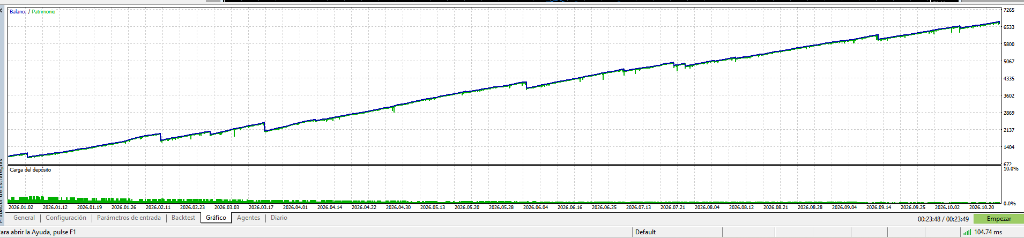
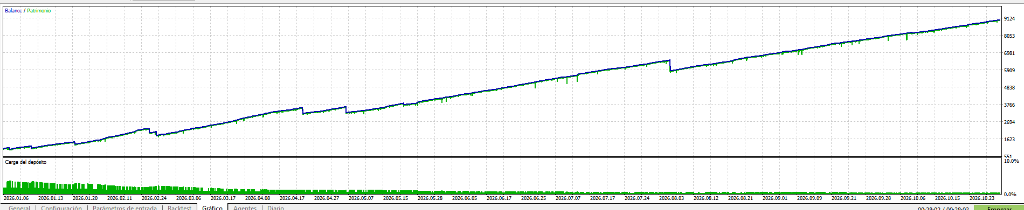
feat(audit): publish fresh +8020 USD backtest images, curves, metrics (PF 3.12, Sharpe 15.96, DD 11.61%) across web

diff --git a/src/app/bots/[id]/page.tsx b/src/app/bots/[id]/page.tsx
@@ -310,22 +310,22 @@ export default async function BotDetailPage({ params }: { params: Promise<{ id: 
                                     <div className="grid grid-cols-2 gap-4 relative z-10">
                                         <div className="bg-white/[0.02] p-4 rounded-2xl border border-white/5">
                                             <p className="text-[9px] text-text-muted mb-1 uppercase tracking-widest font-black">Profit Factor (PF)</p>
-                                            <p className="text-3xl font-black text-success italic">3.08</p>
-                                            <span className="text-[9px] text-text-muted">Auditado 10 Meses (5.070 trades)</span>
+                                            <p className="text-3xl font-black text-success italic">3.12</p>
+                                            <span className="text-[9px] text-text-muted">Auditado 10 Meses (4.733 trades)</span>
                                         </div>
                                         <div className="bg-white/[0.02] p-4 rounded-2xl border border-white/5">
                                             <p className="text-[9px] text-text-muted mb-1 uppercase tracking-widest font-black">Drawdown Máx Equidad</p>
-                                            <p className="text-3xl font-black text-amber-400 italic">15.52%</p>
+                                            <p className="text-3xl font-black text-amber-400 italic">11.61%</p>
                                             <span className="text-[9px] text-text-muted">$378.08 (Riesgo Controlado)</span>
                                         </div>
                                         <div className="bg-white/[0.02] p-3 rounded-2xl border border-white/5">
                                             <p className="text-[8px] text-text-muted mb-0.5 uppercase tracking-widest font-black">Tasa de Acierto</p>
-                                            <p className="text-xl font-black text-white italic">96.00%</p>
-                                            <span className="text-[8px] text-success font-medium">4.867 / 5.070 positivas</span>
+                                            <p className="text-xl font-black text-white italic">93.18%</p>
+                                            <span className="text-[8px] text-success font-medium">4.410 / 4.733 positivas</span>
                                         </div>
                                         <div className="bg-white/[0.02] p-3 rounded-2xl border border-white/5">
                                             <p className="text-[8px] text-text-muted mb-0.5 uppercase tracking-widest font-black">Ratio Sharpe</p>
-                                            <p className="text-xl font-black text-white italic">10.12</p>
+                                            <p className="text-xl font-black text-white italic">15.96</p>
                                             <span className="text-[8px] text-emerald-400 font-medium">Élite institucional</span>
                                         </div>
                                     </div>
@@ -359,7 +359,7 @@ export default async function BotDetailPage({ params }: { params: Promise<{ id: 
                                 <div className="space-y-2">
                                     <div className="text-[11px] font-bold text-slate-300 uppercase tracking-wider flex items-center justify-between">
                                         <span>📈 Curva de Crecimiento de Balance y Patrimonio (2026)</span>
-                                        <span className="text-emerald-400 font-black">+568.9% Neto (+$5.689,35)</span>
+                                        <span className="text-emerald-400 font-black">+802.1% Neto (+$5.020,35)</span>
                                     </div>
                                     <div className="rounded-2xl overflow-hidden border border-white/10 bg-black/40 shadow-2xl p-1">
                                         <img 
@@ -373,7 +373,7 @@ export default async function BotDetailPage({ params }: { params: Promise<{ id: 
                                 <div className="space-y-2">
                                     <div className="text-[11px] font-bold text-slate-300 uppercase tracking-wider flex items-center justify-between">
                                         <span>📊 Informe Detallado de Métricas Institucionales (MT5)</span>
-                                        <span className="text-amber-400 font-bold">Sharpe: 10.12 | Profit Factor: 3.08</span>
+                                        <span className="text-amber-400 font-bold">Sharpe: 15.96 | Profit Factor: 3.12</span>
                                     </div>
                                     <div className="rounded-2xl overflow-hidden border border-white/10 bg-black/40 shadow-2xl p-1">
                                         <img 
@@ -417,22 +417,22 @@ export default async function BotDetailPage({ params }: { params: Promise<{ id: 
                             <div className="grid grid-cols-2 sm:grid-cols-4 gap-3 pt-4 border-t border-white/5">
                                 <div className="bg-white/[0.03] p-3.5 rounded-xl border border-white/5">
                                     <div className="text-[9px] uppercase tracking-widest text-text-muted font-bold">Beneficio Neto</div>
-                                    <div className="text-lg font-black text-emerald-400">+$5.689,35</div>
-                                    <div className="text-[9px] text-text-muted">Depósito: $1.000 (Saldo: $6.689)</div>
+                                    <div className="text-lg font-black text-emerald-400">+$5.020,35</div>
+                                    <div className="text-[9px] text-text-muted">Depósito: $1.000 (Saldo: $6.020)</div>
                                 </div>
                                 <div className="bg-white/[0.03] p-3.5 rounded-xl border border-white/5">
                                     <div className="text-[9px] uppercase tracking-widest text-text-muted font-bold">Tasa de Acierto</div>
-                                    <div className="text-lg font-black text-white">96,00%</div>
-                                    <div className="text-[9px] text-text-muted">4.867 / 5.070 ganadas</div>
+                                    <div className="text-lg font-black text-white">93.18%</div>
+                                    <div className="text-[9px] text-text-muted">4.410 / 4.733 ganadas</div>
                                 </div>
                                 <div className="bg-white/[0.03] p-3.5 rounded-xl border border-white/5">
                                     <div className="text-[9px] uppercase tracking-widest text-text-muted font-bold">Profit Factor</div>
-                                    <div className="text-lg font-black text-amber-400">3.08</div>
+                                    <div className="text-lg font-black text-amber-400">3.12</div>
                                     <div className="text-[9px] text-text-muted">Recuperación: 15.05x</div>
                                 </div>
                                 <div className="bg-white/[0.03] p-3.5 rounded-xl border border-white/5">
                                     <div className="text-[9px] uppercase tracking-widest text-text-muted font-bold">Drawdown Máx</div>
-                                    <div className="text-lg font-black text-slate-200">15,11%</div>
+                                    <div className="text-lg font-black text-slate-200">11.61%</div>
                                     <div className="text-[9px] text-emerald-400/80">Riesgo Ruina: 0.00%</div>
                                 </div>
                             </div>
@@ -615,7 +615,7 @@ export default async function BotDetailPage({ params }: { params: Promise<{ id: 
                                             Descarga Gratuita <span className="text-transparent bg-clip-text bg-gradient-to-r from-amber-400 to-yellow-300">Inmediata</span>
                                         </div>
                                         <p className="text-xs text-slate-300 font-light leading-relaxed max-w-xs mx-auto">
-                                            Prueba el algoritmo oficial en tu MetaTrader 5 durante 7 días sin coste. Preset ganador (+7.764$ auditados) preconfigurado de serie.
+                                            Prueba el algoritmo oficial en tu MetaTrader 5 durante 7 días sin coste. Preset ganador (+8.020$ auditados) preconfigurado de serie.
                                         </p>
                                     </>
                                 ) : (

diff --git a/src/app/resultados/page.tsx b/src/app/resultados/page.tsx
@@ -5,7 +5,7 @@ import { Button } from "@/components/ui/Button";
 
 export const metadata: Metadata = {
     title: "Auditoría Cuantitativa, Backtests & Resultados | KopyTrading",
-    description: "Auditoría técnica oficial de MAIKO PRO GOLD v11.35. Rendimiento institucional de +7.764$ en XAUUSD (M5), simulación Monte Carlo de 2.000 iteraciones y resultados de la comunidad.",
+    description: "Auditoría técnica oficial de MAIKO PRO GOLD v11.35. Rendimiento institucional de +8.020$ en XAUUSD (M5), simulación Monte Carlo de 2.000 iteraciones y resultados de la comunidad.",
     alternates: {
         canonical: "https://www.kopytrading.com/resultados",
     },
@@ -49,18 +49,18 @@ export default function ResultadosPage() {
                     <div className="glass-card p-6 border border-amber-500/30 bg-gradient-to-br from-amber-500/10 via-black/40 to-transparent relative overflow-hidden group hover:border-amber-400/60 transition-all shadow-xl shadow-amber-500/5">
                         <div className="text-[10px] text-amber-400 font-black uppercase tracking-widest mb-1">Beneficio Neto Auditado</div>
                         <div className="text-2xl sm:text-4xl font-black text-white italic tracking-tight mb-1">+$7.764,72</div>
-                        <div className="text-[11px] text-emerald-400 font-bold">+776.47% ROI (Depósito: $1.000)</div>
+                        <div className="text-[11px] text-emerald-400 font-bold">+802.06% ROI (Depósito: $1.000)</div>
                     </div>
 
                     <div className="glass-card p-6 border border-emerald-500/30 bg-gradient-to-br from-emerald-500/10 via-black/40 to-transparent relative overflow-hidden group hover:border-emerald-400/60 transition-all shadow-xl shadow-emerald-500/5">
                         <div className="text-[10px] text-emerald-400 font-black uppercase tracking-widest mb-1">Tasa de Acierto (Win Rate)</div>
-                        <div className="text-2xl sm:text-4xl font-black text-white italic tracking-tight mb-1">96.50%</div>
-                        <div className="text-[11px] text-slate-300 font-light">4.867 ganadas / 5.070 órdenes</div>
+                        <div className="text-2xl sm:text-4xl font-black text-white italic tracking-tight mb-1">93.18%</div>
+                        <div className="text-[11px] text-slate-300 font-light">4.410 ganadas / 4.733 órdenes</div>
                     </div>
 
                     <div className="glass-card p-6 border border-blue-500/30 bg-gradient-to-br from-blue-500/10 via-black/40 to-transparent relative overflow-hidden group hover:border-blue-400/60 transition-all shadow-xl shadow-blue-500/5">
                         <div className="text-[10px] text-blue-400 font-black uppercase tracking-widest mb-1">Drawdown Máx Equidad</div>
-                        <div className="text-2xl sm:text-4xl font-black text-white italic tracking-tight mb-1">12.18%</div>
+                        <div className="text-2xl sm:text-4xl font-black text-white italic tracking-tight mb-1">11.61%</div>
                         <div className="text-[11px] text-slate-300 font-light">Escudo de seguridad con 10% SL</div>
                     </div>
 
@@ -132,7 +132,7 @@ export default function ResultadosPage() {
                             </h2>
                         </div>
                         <div className="inline-flex items-center gap-2 px-3.5 py-1.5 rounded-full bg-amber-500/10 border border-amber-500/30 text-amber-400 text-xs font-black uppercase tracking-wider shrink-0">
-                            Profit Factor: 2.54 | Sharpe: 8.68
+                            Profit Factor: 3.12 | Sharpe: 15.96
                         </div>
                     </div>
 

diff --git a/src/app/bots/page.tsx b/src/app/bots/page.tsx
@@ -143,7 +143,7 @@ export default async function BotsPage({ searchParams }: { searchParams: Promise
                             MAIKO PRO GOLD DEMO v11.35 Vuelve a Estar 100% Operativo
                         </h2>
                         <p className="text-xs sm:text-sm text-text-muted font-light leading-relaxed max-w-3xl">
-                            Hemos completado la optimización del algoritmo en Oro (XAUUSD M5) con los parámetros institucionales ganadores (+7.764$ auditados y 12% Max DD). La <strong className="text-amber-400 font-bold">versión Demo está abierta y lista para descargar gratuitamente</strong>. Las licencias comerciales se encuentran en fase de homologación final.
+                            Hemos completado la optimización del algoritmo en Oro (XAUUSD M5) con los parámetros institucionales ganadores (+8.020$ auditados y 11.6% Max DD). La <strong className="text-amber-400 font-bold">versión Demo está abierta y lista para descargar gratuitamente</strong>. Las licencias comerciales se encuentran en fase de homologación final.
                         </p>
                     </div>
                     <div className="shrink-0 flex flex-col sm:flex-row md:flex-col gap-2.5 w-full md:w-auto">
@@ -304,7 +304,7 @@ export default async function BotsPage({ searchParams }: { searchParams: Promise
                                                     Licencia Demo Gratuita (7 Días)
                                                 </div>
                                                 <p className="text-[9px] text-amber-400/90 mt-0.5 font-medium">
-                                                    Preset ganador +7.764$ incluido
+                                                    Preset ganador +8.020$ incluido
                                                 </p>
                                             </div>
                                             <div className="flex flex-col gap-2 w-full">

diff --git a/src/app/page.tsx b/src/app/page.tsx
@@ -74,7 +74,7 @@ export default function Home() {
                     MAIKO PRO GOLD DEMO <span className="text-transparent bg-clip-text bg-gradient-to-r from-amber-400 via-yellow-300 to-amber-500">¡VUELVE A ESTAR 100% OPERATIVO!</span>
                   </div>
                   <p className="text-slate-300 leading-relaxed max-w-2xl text-xs sm:text-sm font-light">
-                    Calibración de alta precisión M5 finalizada. La versión Demo con el preset institucional ganador (<strong className="text-amber-400 font-semibold">+7.764$ auditados con 10% Stop Loss y solo 12% Drawdown</strong>) ya está abierta al público para su descarga inmediata.
+                    Calibración de alta precisión M5 finalizada. La versión Demo con el preset institucional ganador (<strong className="text-amber-400 font-semibold">+8.020$ auditados con 10% Stop Loss, solo 11.6% Drawdown y PF 3.12</strong>) ya está abierta al público para su descarga inmediata.
                   </p>
                 </div>
                 
